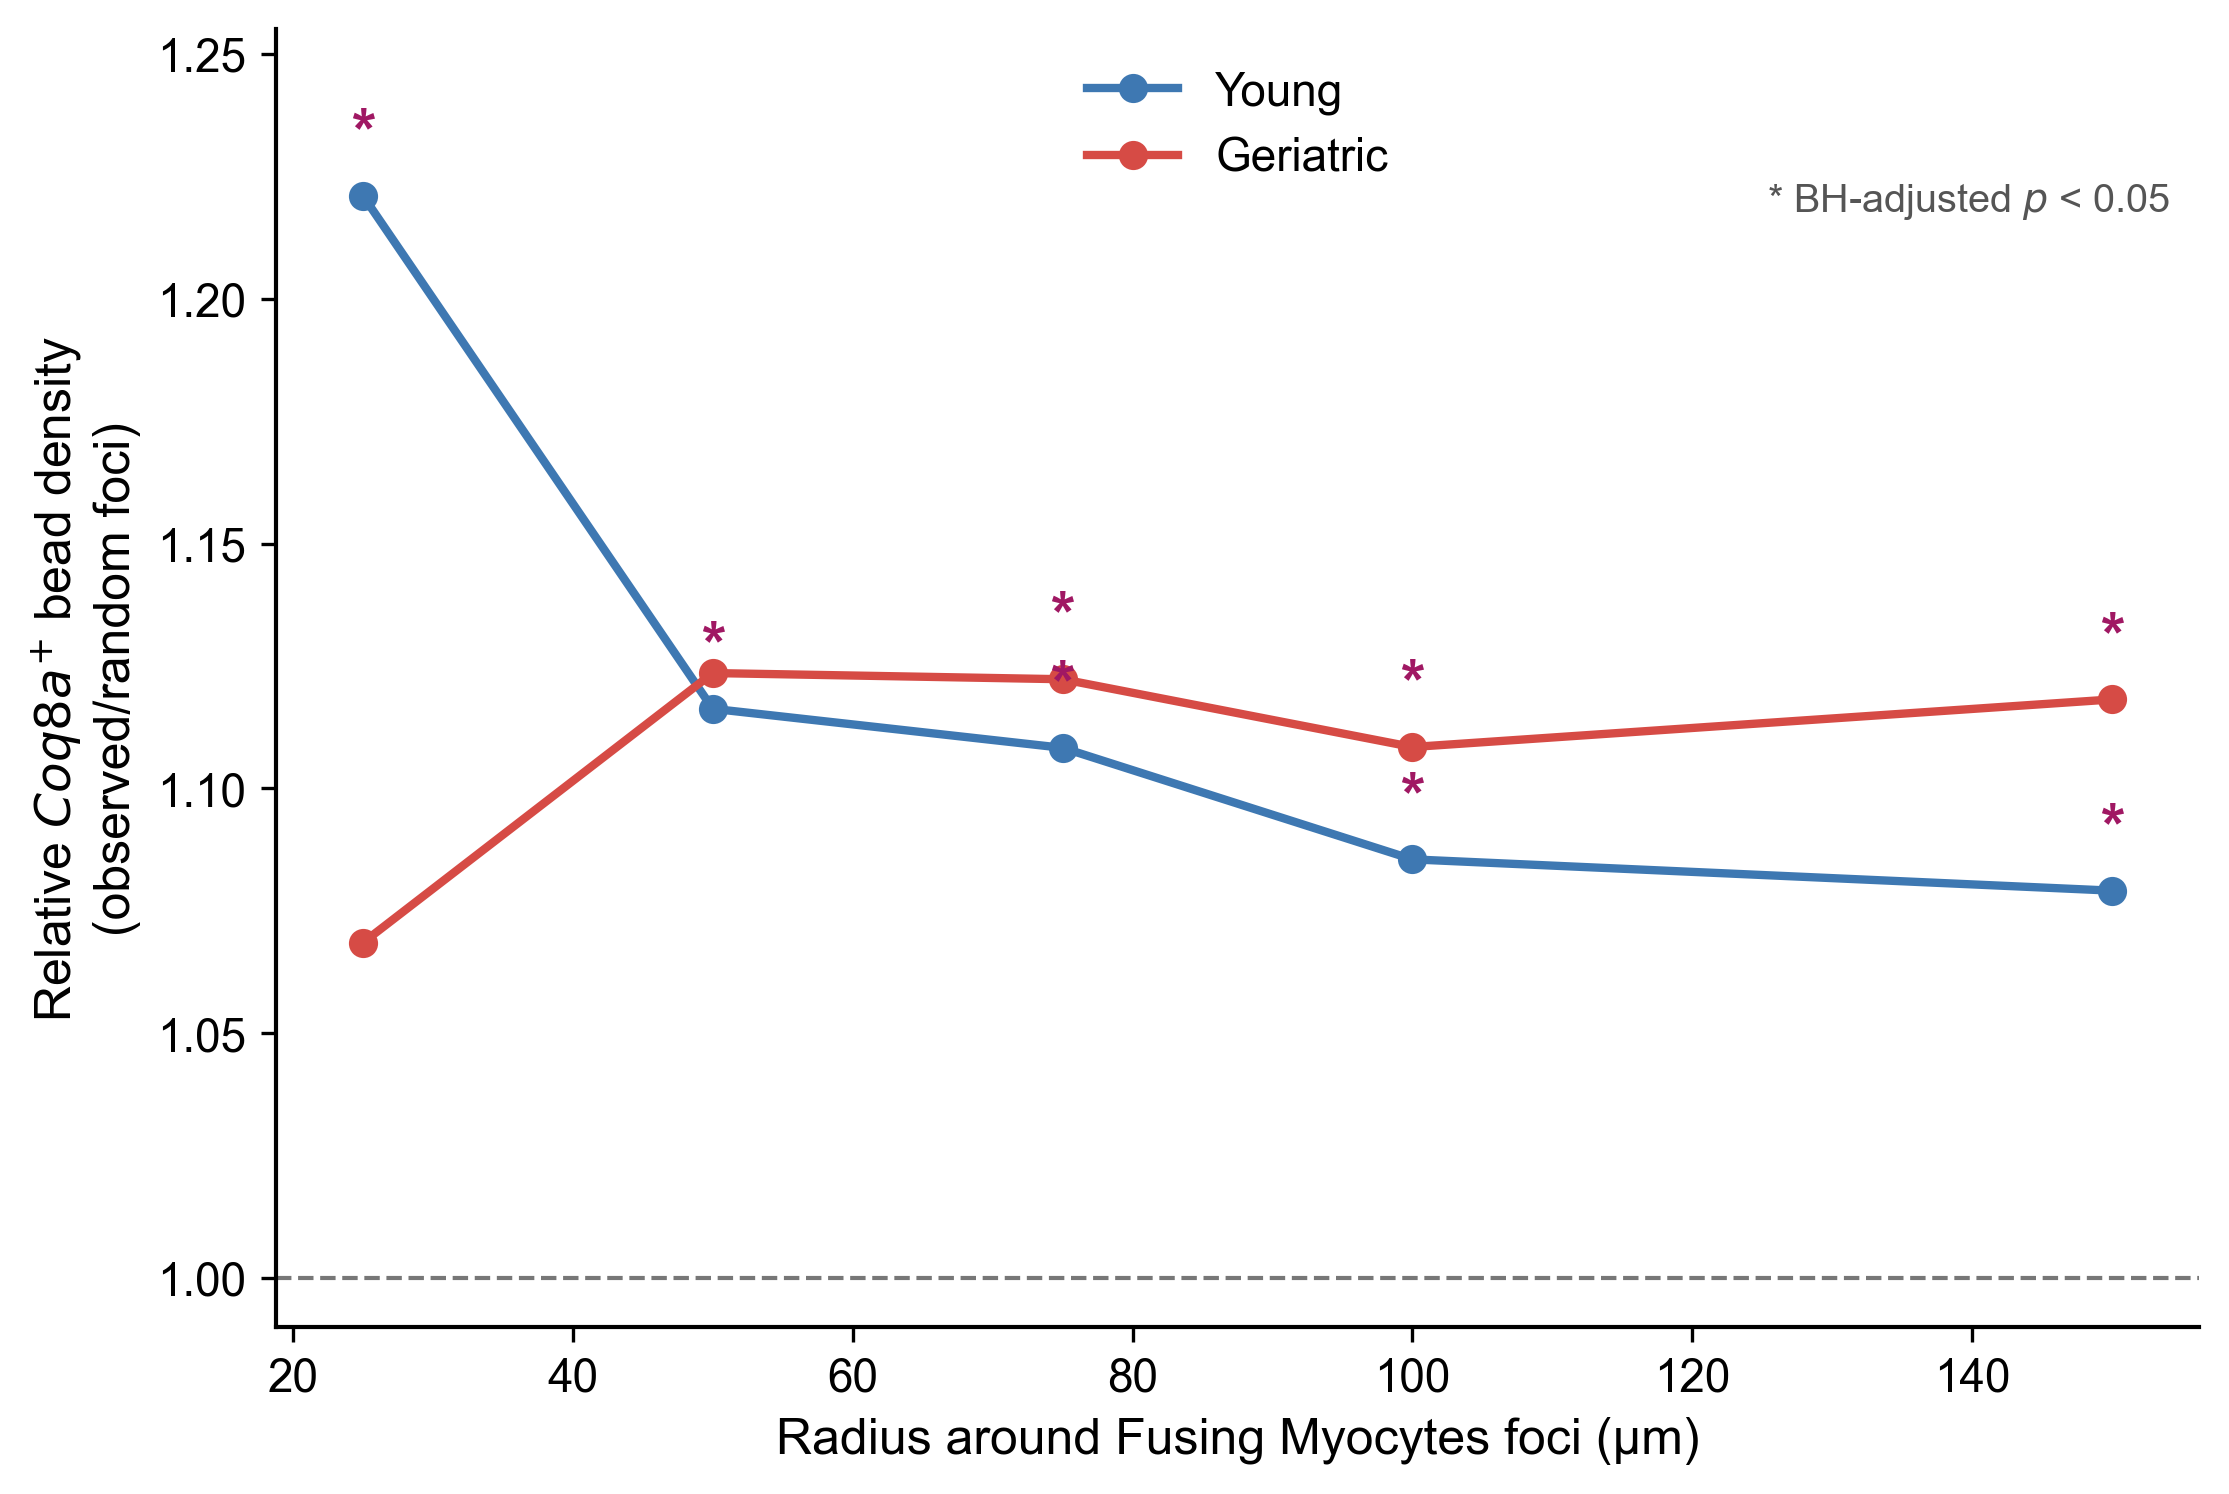
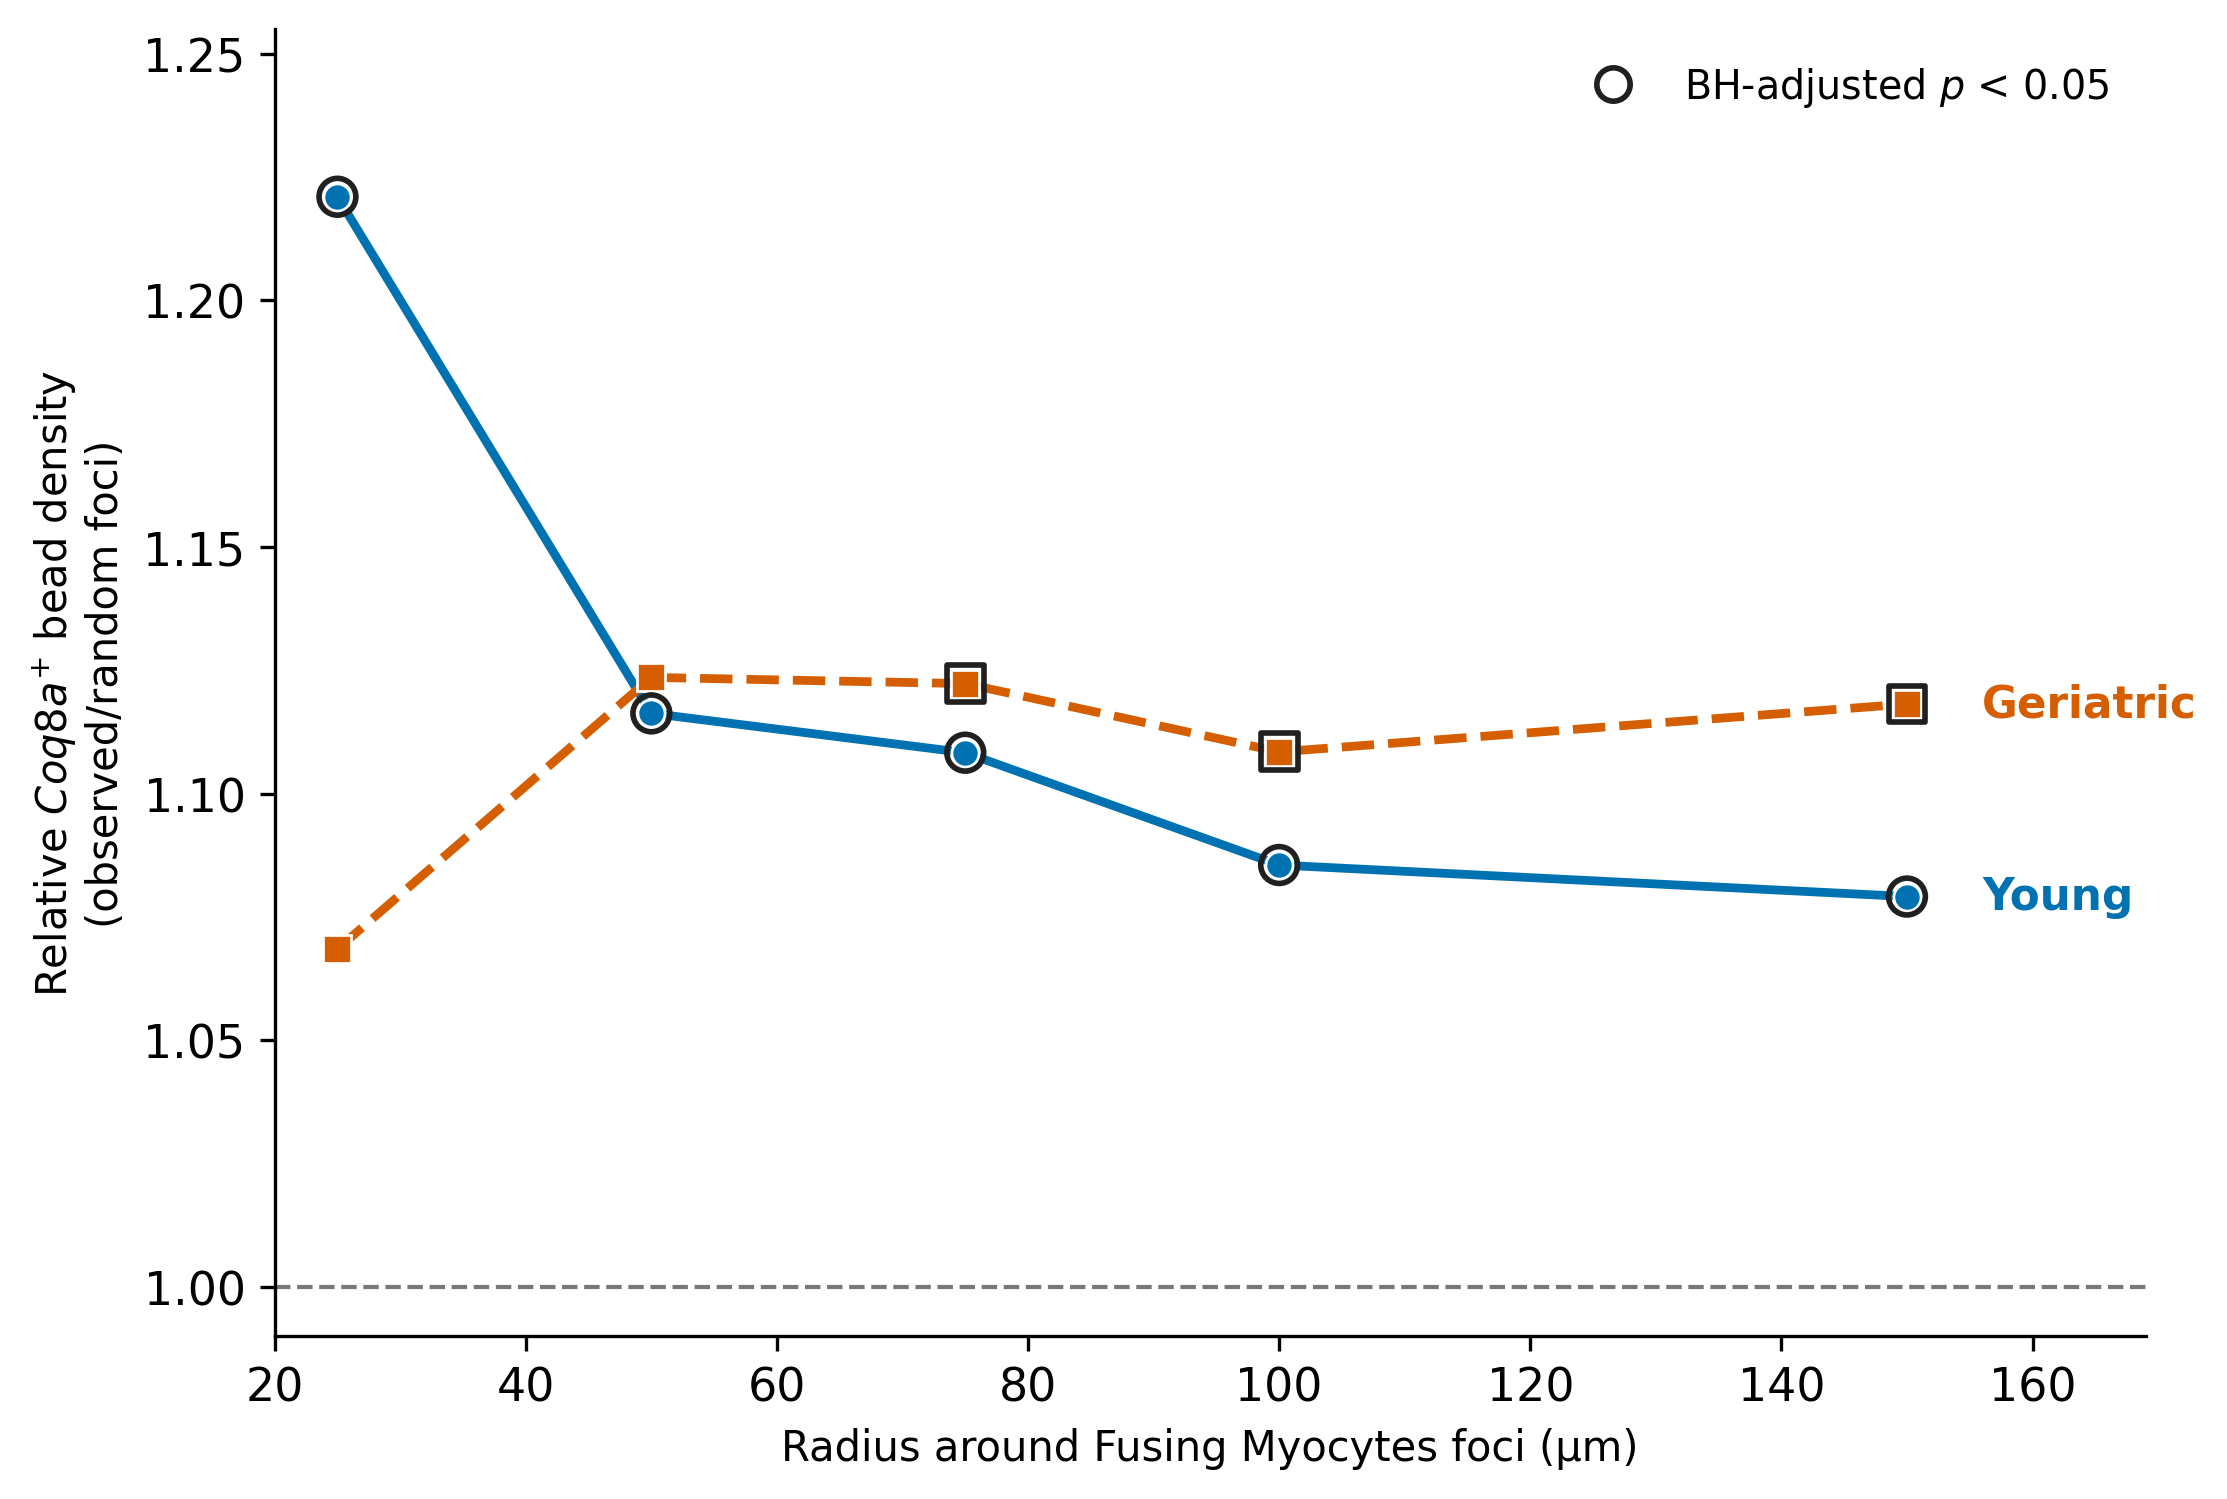
Clarify group and significance encoding in spatial figure

diff --git a/code/run_spatial_analysis.py b/code/run_spatial_analysis.py
@@ -662,18 +662,42 @@ def plot_marker_audit(table: pd.DataFrame, output: Path):
 
 def plot_local_enrichment(table: pd.DataFrame, output: Path):
     fig, ax = plt.subplots(figsize=(7.6, 5.1))
+    styles = {
+        "Young": {"color": "#0072B2", "marker": "o", "linestyle": "-"},
+        "Geriatric": {"color": "#D55E00", "marker": "s", "linestyle": "--"},
+    }
     for sample in ("Young", "Geriatric"):
         data = table.loc[table["sample"].eq(sample)].sort_values("radius_um")
-        ax.plot(data["radius_um"], data["observed_to_random_ratio"], marker="o", ms=6, lw=2, color=SAMPLES[sample]["color"], label=sample)
+        style = styles[sample]
+        ax.plot(
+            data["radius_um"], data["observed_to_random_ratio"],
+            marker=style["marker"], ms=6.5, lw=2.1,
+            linestyle=style["linestyle"], color=style["color"],
+            markeredgecolor="white", markeredgewidth=0.65, zorder=2,
+        )
         sig = data["p_adj_bh_across_10_radius_tests"].lt(0.05)
-        for x_value, y_value in zip(data.loc[sig, "radius_um"], data.loc[sig, "observed_to_random_ratio"]):
-            ax.text(x_value, y_value + 0.006, "*", color="#A01863", fontsize=15, fontweight="bold", ha="center", va="bottom")
+        ax.scatter(
+            data.loc[sig, "radius_um"], data.loc[sig, "observed_to_random_ratio"],
+            s=78, marker=style["marker"], facecolors="none", edgecolors="#202020",
+            linewidths=1.35, zorder=3,
+        )
+        last = data.iloc[-1]
+        ax.text(
+            156, last["observed_to_random_ratio"], sample,
+            color=style["color"], fontsize=10.5, fontweight="bold",
+            va="center", ha="left",
+        )
     ax.axhline(1, color="#777777", lw=1, ls="--")
     ax.set_ylim(0.99, 1.255)
+    ax.set_xlim(20, 169)
     ax.set_xlabel("Radius around Fusing Myocytes foci (µm)")
     ax.set_ylabel(r"Relative $\it{Coq8a}^{+}$ bead density" + "\n(observed/random foci)")
-    ax.legend(frameon=False)
-    ax.text(0.985, 0.86, r"* BH-adjusted $p$ < 0.05", transform=ax.transAxes, ha="right", fontsize=9.5, color="#555555")
+    significance_handle = Line2D(
+        [0], [0], marker="o", linestyle="", markerfacecolor="none",
+        markeredgecolor="#202020", markeredgewidth=1.35, markersize=8,
+        label=r"BH-adjusted $p$ < 0.05",
+    )
+    ax.legend(handles=[significance_handle], frameon=False, loc="upper right", fontsize=9.5)
     ax.spines[["top", "right"]].set_visible(False)
     ax.tick_params(labelsize=11)
     fig.tight_layout()
